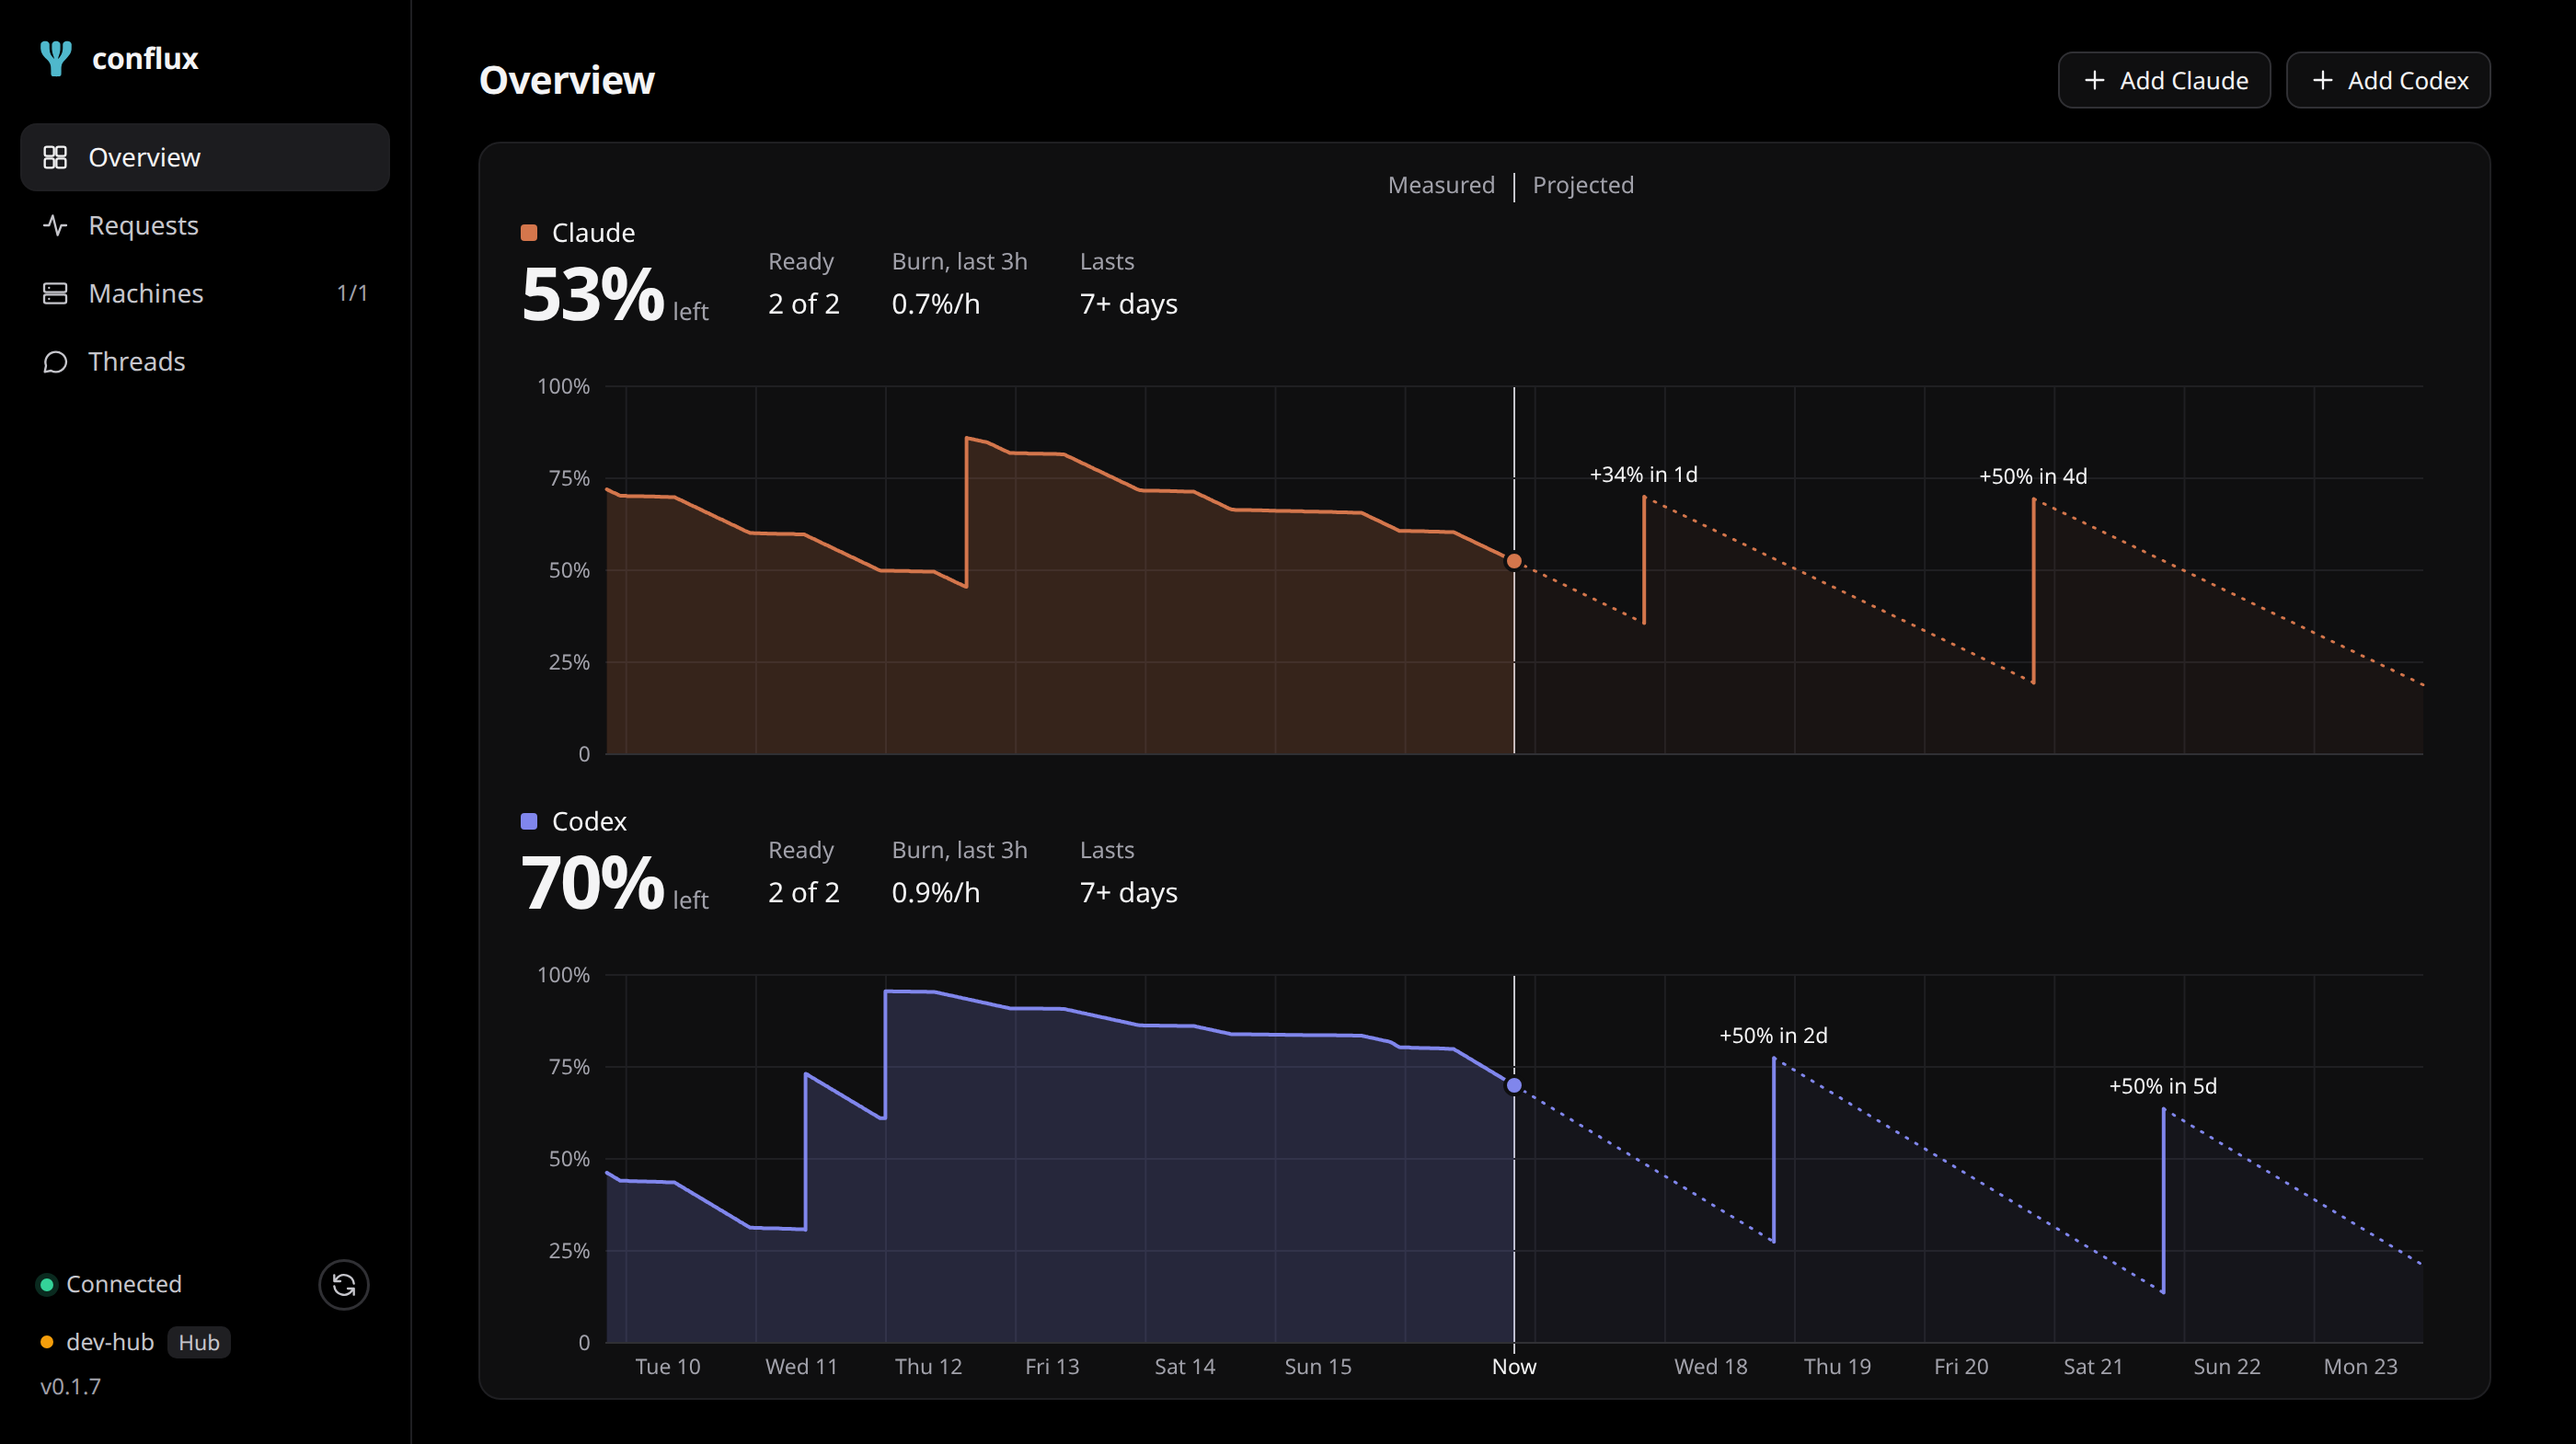
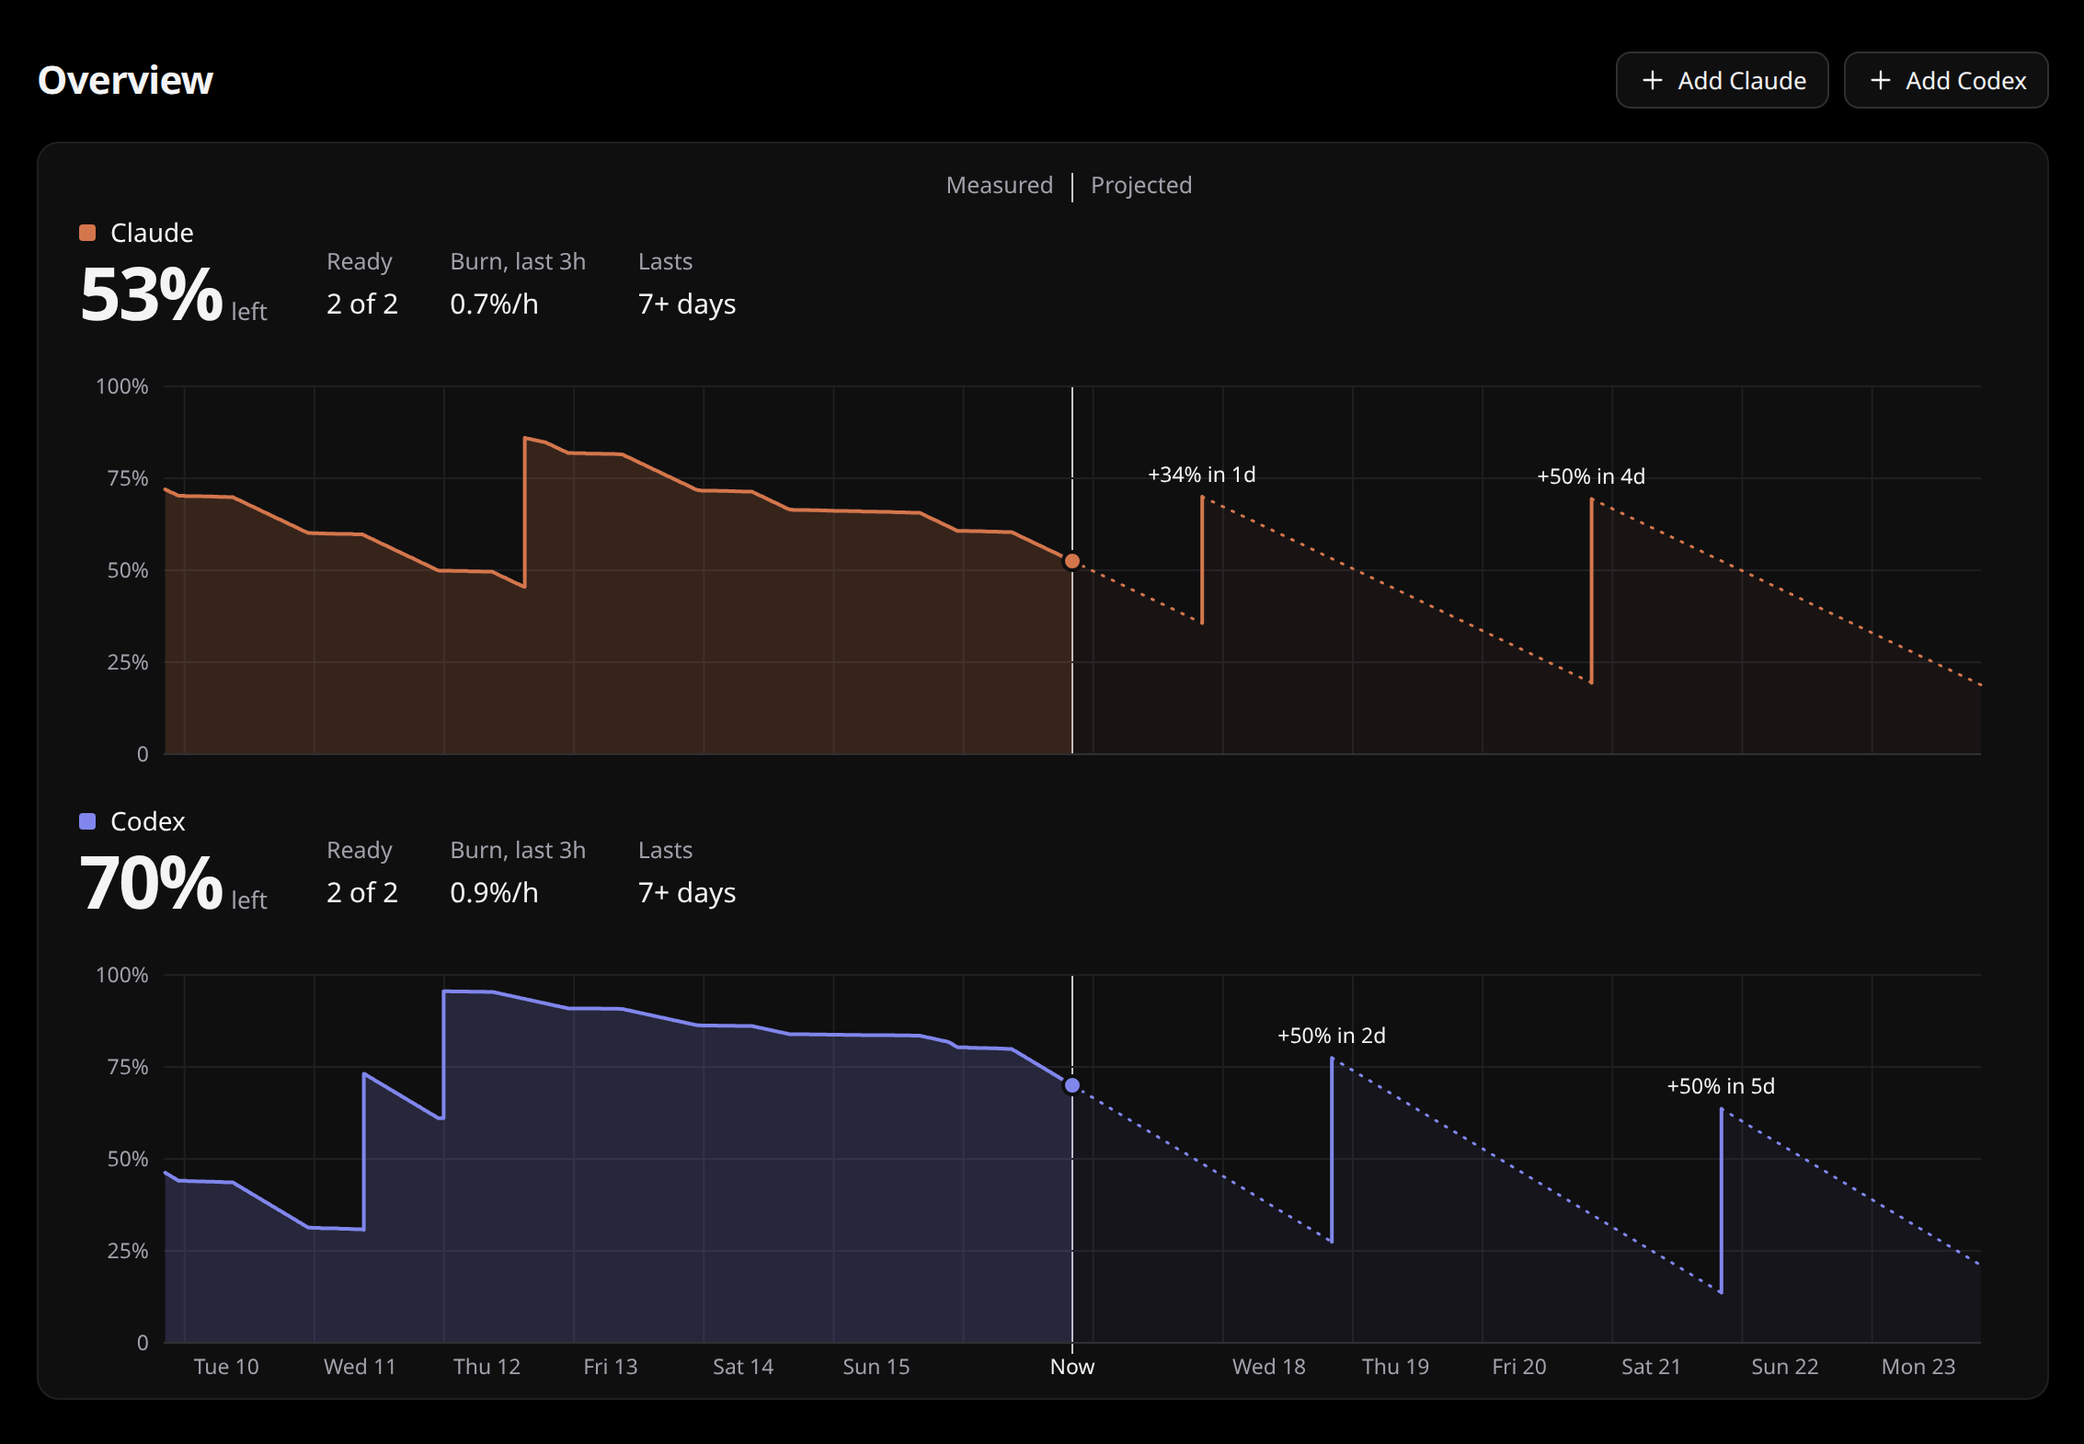
docs(readme): name the tools in the tagline, split step 3, trim the command table, and crop the screenshot

diff --git a/README.md b/README.md
@@ -4,7 +4,7 @@
 
 <h1 align="center">conflux</h1>
 
-<p align="center">Share your Claude and ChatGPT subscriptions across all of your computers.</p>
+<p align="center">Pool your Claude Code and Codex subscriptions across all of your computers.</p>
 
 <p align="center">
   <a href="#quick-start"><strong>Quick start</strong></a> ·
@@ -18,15 +18,17 @@
   <img src="assets/dashboard-light.png" alt="The conflux dashboard. Each provider's pool shows how much quota is left, the burn rate, how long it lasts, and a week of history with the coming resets.">
 </picture>
 
-One always-on machine, the **hub**, holds your account logins. Claude Code and Codex on your other machines send their requests through it, so every machine draws from the same pool of accounts.
+<p align="center"><sub>The dashboard shows how much quota each pool has left. The solid line is the past week. The dotted line is the forecast, with each coming reset.</sub></p>
+
+One always-on machine, the **hub**, holds your Claude and ChatGPT account logins. Claude Code and Codex on your other machines send their requests through it, so every machine draws from the same pool of accounts.
 
 ## What you get
 
 - **Less wasted quota.** New sessions start on the available account whose weekly limit resets soonest.
 - **Automatic failover.** When an account runs out, the next request goes to one that still has room.
 - **Stable sessions.** A session stays on one account, so its prompt cache keeps working.
-- **One dashboard.** See how much quota each pool has left, when it refills, your machines, and recent requests. Open it from any device on your tailnet.
-- **Thread history, if you want it.** Run `conflux sync on` on a machine to copy its Claude Code and Codex threads to the hub, where you can search them. It's off by default, because transcripts hold everything your agents have read.
+- **One dashboard.** See each pool's quota, your machines, and recent requests from any device on your tailnet.
+- **Optional thread sync.** `conflux sync on` copies a machine's threads to the hub, where you can search them. It's off by default.
 
 > [!WARNING]
 > Pooling subscriptions may break your providers' terms and could get your accounts banned. conflux is unofficial. It logs in through Claude Code's and Codex's own OAuth clients, so either provider can break it at any time. Use it only for your own work on your own machines, and use Claude subscriptions only from Claude Code.
@@ -39,7 +41,7 @@ You need:
 - Claude Code or Codex on each machine you work from.
 - One machine that stays on at home to be the hub. Linux is best. Don't send its traffic through another VPN or an exit node.
 
-The installer supports Linux x64 and ARM64 with systemd, macOS on Apple silicon, and Windows x64. The commands below are for macOS and Linux. For Windows, follow the [install guide](docs/install.md).
+The installer supports Linux x64 and ARM64 with systemd, macOS on Apple silicon, and Windows x64. It installs conflux as a background service and points Claude Code and Codex at it. `conflux leave` undoes that.
 
 **1. Install on the hub.**
 
@@ -47,49 +49,58 @@ The installer supports Linux x64 and ARM64 with systemd, macOS on Apple silicon,
 curl -fsSL https://raw.githubusercontent.com/Byntham/conflux/main/install.sh | sh -s -- self
 ```
 
+On Windows, in PowerShell:
+
+```powershell
+irm https://raw.githubusercontent.com/Byntham/conflux/main/install.ps1 | iex
+conflux join self
+```
+
 The last line it prints is the dashboard's address. Run `conflux` to print it again. If the installer changed your PATH, open a new terminal.
 
-**2. Add your accounts.** Run one command per subscription, then open the link it prints.
+**2. Add your accounts.** On the hub, run one command per subscription.
 
 ```sh
 conflux login claude    # a Claude subscription
 conflux login codex     # a ChatGPT subscription
 ```
 
-**3. Add your other machines.** On the dashboard, open Machines, click "Find machines", then click "Install". This needs ssh from the hub to the machine without a password. Otherwise, install on the machine yourself and link it:
+Each one prints a link. Open it in a browser signed in to that account. For Claude, the browser then shows a connection error. That is expected. Paste the whole URL from the address bar into the terminal.
 
-```sh
-curl -fsSL https://raw.githubusercontent.com/Byntham/conflux/main/install.sh | sh
-conflux join
-```
+**3. Add your other machines.** Skip this if you only work on the hub. There are two ways.
+
+- *From the dashboard.* Open Machines, click "Find machines", then click "Install". This works for Mac and Linux machines that the hub can ssh to without a password.
+- *On the machine itself.* Install conflux, then link it to the hub:
+
+  ```sh
+  curl -fsSL https://raw.githubusercontent.com/Byntham/conflux/main/install.sh | sh
+  conflux join
+  ```
+
+  For Windows, see the [install guide](docs/install.md#on-the-machine-itself).
 
 **4. Restart your sessions.** Restart Claude Code and Codex on every machine, including the hub. Your next message shows up on the dashboard's Requests tab. If it doesn't, see [Troubleshooting](docs/troubleshooting.md).
 
-The [install guide](docs/install.md) covers Windows, guests, the Mac menu bar app, updates, building from source, and uninstalling.
+The [install guide](docs/install.md) covers guests, the Mac menu bar app, updates, building from source, and uninstalling.
 
 ## Everyday commands
 
 | Command | What it does |
 | --- | --- |
-| `conflux` | Print the dashboard's address and the command list |
 | `conflux status` | Show accounts, usage, and cooldowns |
-| `conflux login claude` or `codex` | Add an account, or log one in again |
 | `conflux disable <account>` | Stop using an account. `enable` brings it back |
-| `conflux remove <account>` | Delete an account from the hub |
 | `conflux off` | Use this machine's own logins, for example when the hub is down. `on` undoes it |
 | `conflux update` | Update every online machine that is behind |
-| `conflux hub move <machine>` | Make another of your machines the hub. Your logins move with it |
 | `conflux leave` | Stop conflux on this machine and restore Claude Code's and Codex's settings |
 
-[Commands](docs/commands.md) explains every command, including thread sync, extra usage, and the T3 Code key.
+`<account>` is an ID from `conflux status`. [Commands](docs/commands.md) explains every command, including how to move the hub to another machine.
 
 ## Security
 
 - Every machine signed in to Tailscale as you can use and manage your accounts and read synced transcripts. So can any program on the hub itself.
 - Machines of other Tailscale users, and tagged machines, join as guests. They can send requests only after you approve them.
 - The hub stores account tokens unencrypted. Protect it like a password manager.
-- `conflux leave` keeps the tokens. If you're done with a hub, run `conflux remove <account>` for each account first.
-- After a hub move, the old hub keeps a copy of the tokens in a `retired-*` folder. Delete it once the move has worked.
+- `conflux leave` keeps the tokens. Before you retire a hub, run `conflux remove <account>` for each account. A hub move leaves a copy in a `retired-*` folder on the old hub. Delete it once the move has worked.
 
 ## Documentation
 

diff --git a/docs/install.md b/docs/install.md
@@ -4,7 +4,7 @@ The [README](../README.md#quick-start) has the short version. This page covers e
 
 ## Requirements
 
-- Every machine runs [Tailscale](https://tailscale.com) with MagicDNS on, which is the default. Use a tailnet that holds only your own devices, because anyone who can reach the hub can use your accounts.
+- Every machine runs [Tailscale](https://tailscale.com) with MagicDNS on, which is the default. Every machine signed in to Tailscale as you can use and manage your accounts. Machines of other users, and tagged machines, need your approval first. See [Security](../README.md#security).
 - The hub stays on and stays at home. Linux is best, because a macOS or Windows hub runs only while you're signed in. Don't route its traffic through another VPN or an exit node, so the providers see one home IP address.
 - Each machine you work from has Claude Code or Codex. The hub doesn't need them.
 - The installer supports Linux x64 and ARM64 with systemd, macOS on Apple silicon, and Windows x64. On other systems, [build from source](#build-from-source).
@@ -37,7 +37,7 @@ conflux login claude    # a Claude subscription
 conflux login codex     # a ChatGPT subscription
 ```
 
-Each command prints a link and the steps to follow. Open the link in a browser signed in to that account. The browser can be on any machine.
+Each command prints a link. Open it in a browser signed in to that account. The browser can be on any machine. For Claude, the browser then shows a connection error. That is expected. Paste the whole URL from the address bar into the terminal. For Codex, enter the code that the command prints.
 
 Your accounts now show on the dashboard. Its address is the "Dashboard:" line that step 1 printed, and it works from any of your devices. Run `conflux` on the hub to print it again.
 
